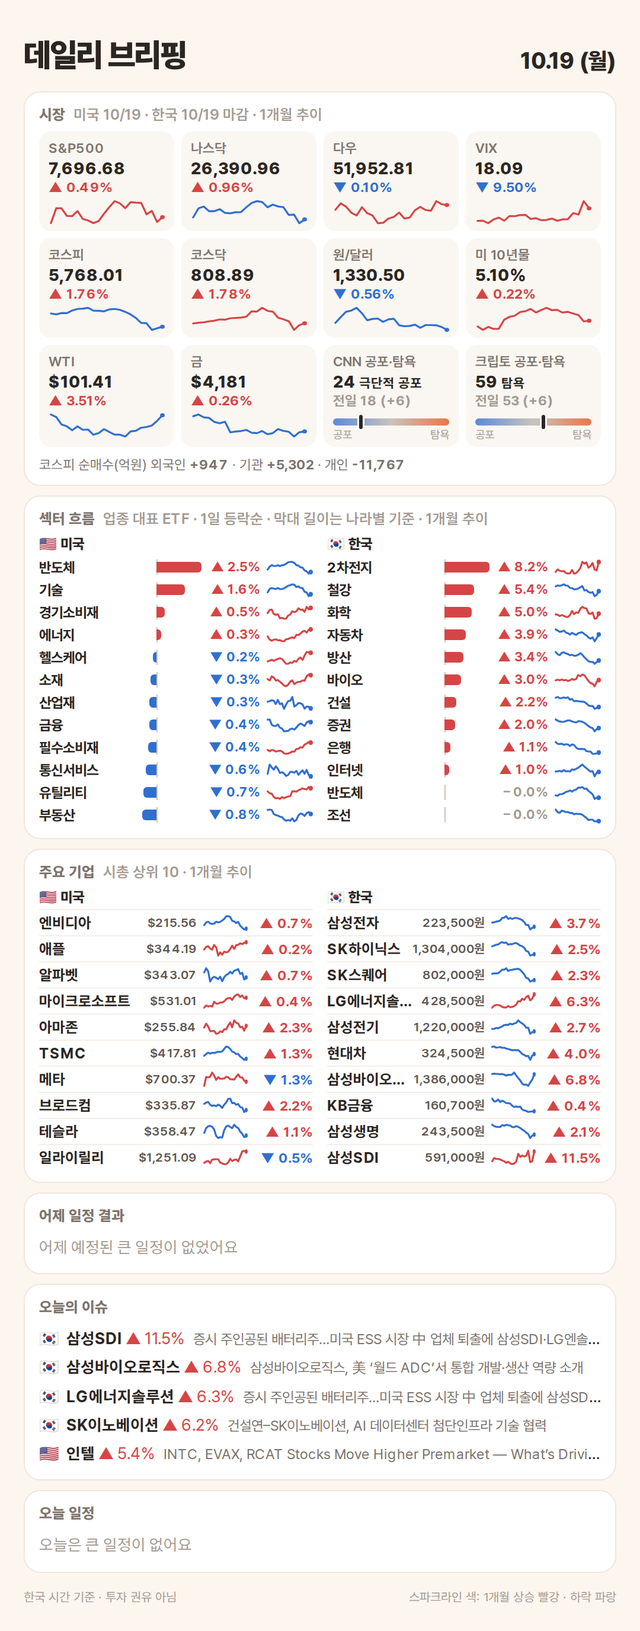
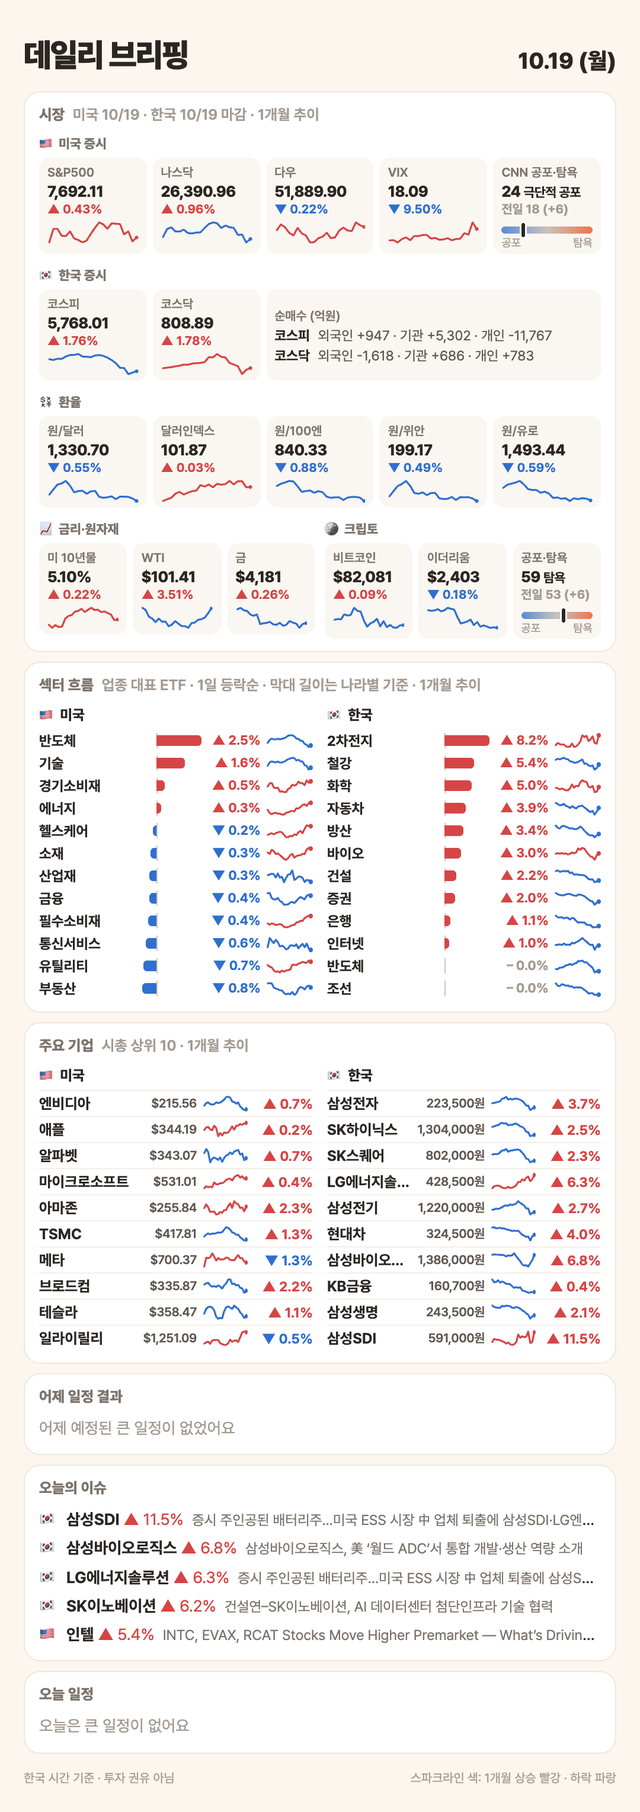
데일리: 달러인덱스·엔·위안·유로·비트코인·이더리움 추가, 시장 블록을 미국/한국/환율/금리·원자재/크립토로 재배열

diff --git a/docs/daily/2026-10-19/index.html b/docs/daily/2026-10-19/index.html
@@ -13,16 +13,22 @@ h1{font-size:27px;font-weight:900;letter-spacing:-1px}
 .blk{background:var(--card);border:1.5px solid var(--line);border-radius:14px;padding:11px 12px 10px;margin-bottom:8px}
 .bt{font-size:12.5px;font-weight:800;color:#7d746c;margin-bottom:7px}
 .at{font-weight:600;color:var(--sub);margin-left:4px}
-.grid{display:grid;grid-template-columns:repeat(4,1fr);gap:6px}
-.tile{min-width:0;background:#faf6f1;border-radius:10px;padding:7px 8px 5px;display:flex;flex-direction:column}
-.tile .sp{width:100%;height:22px;margin-top:3px}
+.grid{display:grid;gap:5px}
+.mrow{display:flex;gap:8px;margin-bottom:8px}.mrow:last-child{margin-bottom:0}
+.mg{min-width:0}
+.mgl{font-size:11px;font-weight:800;color:#7d746c;margin-bottom:4px}
+.flowt{justify-content:center;gap:3px}
+.fr{font-size:11.5px;color:#5f5750;white-space:nowrap;overflow:hidden;text-overflow:ellipsis}
+.fr b{color:var(--ink);margin-right:4px}
+.tile{min-width:0;background:#faf6f1;border-radius:9px;padding:6px 7px 4px;display:flex;flex-direction:column}
+.tile .sp{width:100%;height:20px;margin-top:3px}
 .tv small{font-size:11px;font-weight:700}
 .mbar{position:relative;height:6px;border-radius:3px;margin-top:8px;background:linear-gradient(90deg,#5b8bd6,#c9c3bd 50%,#e8774a)}
 .mbar span{position:absolute;top:-3px;width:3px;height:12px;margin-left:-1.5px;border-radius:2px;background:var(--ink);box-shadow:0 0 0 1.5px #fff}
 .mticks{display:flex;justify-content:space-between;font-size:9.5px;color:var(--sub);margin-top:2px}
-.tl{font-size:11.5px;color:#7d746c;font-weight:600}
-.tv{font-size:14px;font-weight:800;margin-top:2px;white-space:nowrap;overflow:hidden;text-overflow:ellipsis}
-.tc{font-size:11.5px;font-weight:700;margin-top:1px}
+.tl{font-size:10.5px;color:#7d746c;font-weight:600;white-space:nowrap;overflow:hidden;text-overflow:ellipsis}
+.tv{font-size:13px;letter-spacing:-.3px;font-weight:800;margin-top:2px;white-space:nowrap;overflow:hidden;text-overflow:ellipsis}
+.tc{font-size:10.5px;white-space:nowrap;font-weight:700;margin-top:1px}
 .up{color:var(--up)}.down{color:var(--down)}.flat{color:var(--sub)}
 .flow{font-size:11.5px;color:#7d746c;margin-top:8px}
 .cos{display:grid;grid-template-columns:minmax(0,1fr) minmax(0,1fr);gap:12px}
@@ -76,10 +82,10 @@ td,th{text-align:left;padding:5px 6px;border-top:1px solid var(--line)}
 .err{color:#c0492b;word-break:break-all}
 .meta{font-size:12px;color:var(--sub);margin-top:24px;display:flex;justify-content:space-between;flex-wrap:wrap;gap:8px}
 .meta a{color:var(--accent);font-weight:700}
-@media (max-width:420px){#card{padding:22px 12px 18px}.grid{grid-template-columns:repeat(3,1fr)}.cos{grid-template-columns:1fr}h1{font-size:24px}}</style></head><body>
+@media (max-width:420px){#card{padding:22px 12px 18px}.cos{grid-template-columns:1fr}h1{font-size:24px}}</style></head><body>
 <div id="card">
 <div class="head"><h1>데일리 브리핑</h1><div class="range">10.19 (월)</div></div>
-<div class="blk"><div class="bt">시장 <span class="at">미국 10/19 · 한국 10/19 마감 · 1개월 추이</span></div><div class="grid"><a class="tile" href="https://m.stock.naver.com/worldstock/index/.INX"><div class="tl">S&amp;P500</div><div class="tv">7,696.68</div><div class="tc"><span class="up">▲ 0.49%</span></div><svg class="sp" viewBox="0 0 100 26" preserveAspectRatio="none" aria-hidden="true"><polyline points="2.0,24.0 6.6,9.1 11.1,9.1 15.7,16.7 20.3,17.0 24.9,11.9 29.4,19.7 34.0,21.3 38.6,23.9 43.1,21.9 47.7,14.6 52.3,7.9 56.9,2.0 61.4,4.2 66.0,9.0 70.6,3.0 75.1,3.5 79.7,3.8 84.3,15.1 88.9,11.8 93.4,22.8 98.0,18.0" fill="none" stroke="var(--up)" stroke-width="1.6" stroke-linejoin="round" stroke-linecap="round" vector-effect="non-scaling-stroke"/><circle cx="98.0" cy="18.0" r="2" fill="var(--up)"/></svg></a><a class="tile" href="https://m.stock.naver.com/worldstock/index/.IXIC"><div class="tl">나스닥</div><div class="tv">26,390.96</div><div class="tc"><span class="up">▲ 0.96%</span></div><svg class="sp" viewBox="0 0 100 26" preserveAspectRatio="none" aria-hidden="true"><polyline points="2.0,18.2 6.6,9.2 11.1,7.4 15.7,12.0 20.3,12.0 24.9,10.0 29.4,13.7 34.0,14.1 38.6,13.1 43.1,13.0 47.7,8.2 52.3,3.8 56.9,2.0 61.4,2.9 66.0,8.1 70.6,5.5 75.1,7.3 79.7,8.0 84.3,15.7 88.9,15.4 93.4,24.0 98.0,20.2" fill="none" stroke="var(--down)" stroke-width="1.6" stroke-linejoin="round" stroke-linecap="round" vector-effect="non-scaling-stroke"/><circle cx="98.0" cy="20.2" r="2" fill="var(--down)"/></svg></a><a class="tile" href="https://m.stock.naver.com/worldstock/index/.DJI"><div class="tl">다우</div><div class="tv">51,952.81</div><div class="tc"><span class="down">▼ 0.10%</span></div><svg class="sp" viewBox="0 0 100 26" preserveAspectRatio="none" aria-hidden="true"><polyline points="2.0,10.6 6.6,4.2 11.1,7.4 15.7,13.5 20.3,16.3 24.9,8.0 29.4,14.0 34.0,16.3 38.6,24.0 43.1,23.6 47.7,19.3 52.3,17.7 56.9,13.4 61.4,19.3 66.0,18.4 70.6,11.0 75.1,7.7 79.7,10.8 84.3,11.6 88.9,2.0 93.4,5.0 98.0,5.9" fill="none" stroke="var(--up)" stroke-width="1.6" stroke-linejoin="round" stroke-linecap="round" vector-effect="non-scaling-stroke"/><circle cx="98.0" cy="5.9" r="2" fill="var(--up)"/></svg></a><a class="tile" href="https://m.stock.naver.com/worldstock/index/.VIX"><div class="tl">VIX</div><div class="tv">18.09</div><div class="tc"><span class="down">▼ 9.50%</span></div><svg class="sp" viewBox="0 0 100 26" preserveAspectRatio="none" aria-hidden="true"><polyline points="2.0,21.7 6.6,21.5 11.1,24.0 15.7,20.3 20.3,18.4 24.9,21.5 29.4,16.9 34.0,17.0 38.6,15.9 43.1,15.7 47.7,19.8 52.3,19.0 56.9,21.0 61.4,20.7 66.0,19.4 70.6,21.6 75.1,20.2 79.7,20.0 84.3,13.9 88.9,15.4 93.4,2.0 98.0,9.2" fill="none" stroke="var(--up)" stroke-width="1.6" stroke-linejoin="round" stroke-linecap="round" vector-effect="non-scaling-stroke"/><circle cx="98.0" cy="9.2" r="2" fill="var(--up)"/></svg></a><a class="tile" href="https://m.stock.naver.com/domestic/index/KOSPI"><div class="tl">코스피</div><div class="tv">5,768.01</div><div class="tc"><span class="up">▲ 1.76%</span></div><svg class="sp" viewBox="0 0 100 26" preserveAspectRatio="none" aria-hidden="true"><polyline points="2.0,7.7 6.6,8.5 11.1,7.2 15.7,7.3 20.3,4.7 24.9,3.1 29.4,2.9 34.0,2.0 38.6,4.8 43.1,5.0 47.7,5.5 52.3,3.6 56.9,3.1 61.4,4.0 66.0,6.0 70.6,8.6 75.1,12.0 79.7,17.1 84.3,17.4 88.9,24.0 93.4,22.4 98.0,20.9" fill="none" stroke="var(--down)" stroke-width="1.6" stroke-linejoin="round" stroke-linecap="round" vector-effect="non-scaling-stroke"/><circle cx="98.0" cy="20.9" r="2" fill="var(--down)"/></svg></a><a class="tile" href="https://m.stock.naver.com/domestic/index/KOSDAQ"><div class="tl">코스닥</div><div class="tv">808.89</div><div class="tc"><span class="up">▲ 1.78%</span></div><svg class="sp" viewBox="0 0 100 26" preserveAspectRatio="none" aria-hidden="true"><polyline points="2.0,17.6 6.6,16.9 11.1,16.4 15.7,15.5 20.3,14.8 24.9,13.6 29.4,13.8 34.0,12.4 38.6,12.1 43.1,11.7 47.7,10.9 52.3,5.5 56.9,5.7 61.4,2.0 66.0,5.0 70.6,5.8 75.1,11.8 79.7,13.5 84.3,15.3 88.9,24.0 93.4,19.3 98.0,17.4" fill="none" stroke="var(--up)" stroke-width="1.6" stroke-linejoin="round" stroke-linecap="round" vector-effect="non-scaling-stroke"/><circle cx="98.0" cy="17.4" r="2" fill="var(--up)"/></svg></a><a class="tile" href="https://m.stock.naver.com/marketindex/exchange/FX_USDKRW"><div class="tl">원/달러</div><div class="tv">1,330.50</div><div class="tc"><span class="down">▼ 0.56%</span></div><svg class="sp" viewBox="0 0 100 26" preserveAspectRatio="none" aria-hidden="true"><polyline points="2.0,17.1 6.6,11.3 11.1,6.0 15.7,4.7 20.3,2.0 24.9,7.4 29.4,14.4 34.0,13.1 38.6,12.7 43.1,16.0 47.7,13.5 52.3,12.9 56.9,19.4 61.4,20.4 66.0,20.0 70.6,18.8 75.1,21.9 79.7,19.2 84.3,19.2 88.9,19.4 93.4,21.1 98.0,24.0" fill="none" stroke="var(--down)" stroke-width="1.6" stroke-linejoin="round" stroke-linecap="round" vector-effect="non-scaling-stroke"/><circle cx="98.0" cy="24.0" r="2" fill="var(--down)"/></svg></a><a class="tile" href="https://m.stock.naver.com/marketindex/bond/US10YT=RR"><div class="tl">미 10년물</div><div class="tv">5.10%</div><div class="tc"><span class="up">▲ 0.22%</span></div><svg class="sp" viewBox="0 0 100 26" preserveAspectRatio="none" aria-hidden="true"><polyline points="2.0,20.6 6.6,24.0 11.1,21.0 15.7,23.0 20.3,22.8 24.9,13.9 29.4,11.0 34.0,9.9 38.6,6.2 43.1,5.4 47.7,3.1 52.3,6.7 56.9,4.1 61.4,2.0 66.0,4.4 70.6,4.1 75.1,6.7 79.7,6.0 84.3,7.7 88.9,9.3 93.4,15.5 98.0,14.9" fill="none" stroke="var(--up)" stroke-width="1.6" stroke-linejoin="round" stroke-linecap="round" vector-effect="non-scaling-stroke"/><circle cx="98.0" cy="14.9" r="2" fill="var(--up)"/></svg></a><a class="tile" href="https://m.stock.naver.com/marketindex/energy/CLcv1"><div class="tl">WTI</div><div class="tv">$101.41</div><div class="tc"><span class="up">▲ 3.51%</span></div><svg class="sp" viewBox="0 0 100 26" preserveAspectRatio="none" aria-hidden="true"><polyline points="2.0,2.0 6.6,4.6 11.1,11.9 15.7,13.8 20.3,17.7 24.9,13.8 29.4,17.3 34.0,17.0 38.6,22.2 43.1,20.5 47.7,16.6 52.3,19.4 56.9,22.1 61.4,22.1 66.0,24.0 70.6,18.8 75.1,18.2 79.7,15.2 84.3,14.5 88.9,13.0 93.4,8.4 98.0,2.8" fill="none" stroke="var(--down)" stroke-width="1.6" stroke-linejoin="round" stroke-linecap="round" vector-effect="non-scaling-stroke"/><circle cx="98.0" cy="2.8" r="2" fill="var(--down)"/></svg></a><a class="tile" href="https://m.stock.naver.com/marketindex/metals/GCcv1"><div class="tl">금</div><div class="tv">$4,181</div><div class="tc"><span class="up">▲ 0.26%</span></div><svg class="sp" viewBox="0 0 100 26" preserveAspectRatio="none" aria-hidden="true"><polyline points="2.0,3.7 6.6,2.0 11.1,4.8 15.7,5.4 20.3,9.4 24.9,10.8 29.4,9.2 34.0,19.8 38.6,19.0 43.1,18.5 47.7,17.4 52.3,20.2 56.9,20.6 61.4,18.5 66.0,21.7 70.6,20.6 75.1,16.5 79.7,18.3 84.3,19.2 88.9,24.0 93.4,19.7 98.0,18.9" fill="none" stroke="var(--down)" stroke-width="1.6" stroke-linejoin="round" stroke-linecap="round" vector-effect="non-scaling-stroke"/><circle cx="98.0" cy="18.9" r="2" fill="var(--down)"/></svg></a><a class="tile" href="https://edition.cnn.com/markets/fear-and-greed"><div class="tl">CNN 공포·탐욕</div><div class="tv">24 <small>극단적 공포</small></div><div class="tc flat">전일 18 (+6)</div><div class="mbar"><span style="left:24%"></span></div><div class="mticks"><span>공포</span><span>탐욕</span></div></a><a class="tile" href="https://alternative.me/crypto/fear-and-greed-index/"><div class="tl">크립토 공포·탐욕</div><div class="tv">59 <small>탐욕</small></div><div class="tc flat">전일 53 (+6)</div><div class="mbar"><span style="left:59%"></span></div><div class="mticks"><span>공포</span><span>탐욕</span></div></a></div><div class="flow">코스피 순매수(억원) 외국인 <b>+947</b> · 기관 <b>+5,302</b> · 개인 <b>-11,767</b></div></div>
+<div class="blk"><div class="bt">시장 <span class="at">미국 10/19 · 한국 10/19 마감 · 1개월 추이</span></div><div class="mrow"><div class="mg" style="flex:5"><div class="mgl">🇺🇸 미국 증시</div><div class="grid" style="grid-template-columns:repeat(5,minmax(0,1fr))"><a class="tile" href="https://m.stock.naver.com/worldstock/index/.INX"><div class="tl">S&amp;P500</div><div class="tv">7,692.11</div><div class="tc"><span class="up">▲ 0.43%</span></div><svg class="sp" viewBox="0 0 100 26" preserveAspectRatio="none" aria-hidden="true"><polyline points="2.0,24.0 6.6,9.1 11.1,9.1 15.7,16.7 20.3,17.0 24.9,11.9 29.4,19.7 34.0,21.3 38.6,23.9 43.1,21.9 47.7,14.6 52.3,7.9 56.9,2.0 61.4,4.2 66.0,9.0 70.6,3.0 75.1,3.5 79.7,3.8 84.3,15.1 88.9,11.8 93.4,22.8 98.0,18.6" fill="none" stroke="var(--up)" stroke-width="1.6" stroke-linejoin="round" stroke-linecap="round" vector-effect="non-scaling-stroke"/><circle cx="98.0" cy="18.6" r="2" fill="var(--up)"/></svg></a><a class="tile" href="https://m.stock.naver.com/worldstock/index/.IXIC"><div class="tl">나스닥</div><div class="tv">26,390.96</div><div class="tc"><span class="up">▲ 0.96%</span></div><svg class="sp" viewBox="0 0 100 26" preserveAspectRatio="none" aria-hidden="true"><polyline points="2.0,18.2 6.6,9.2 11.1,7.4 15.7,12.0 20.3,12.0 24.9,10.0 29.4,13.7 34.0,14.1 38.6,13.1 43.1,13.0 47.7,8.2 52.3,3.8 56.9,2.0 61.4,2.9 66.0,8.1 70.6,5.5 75.1,7.3 79.7,8.0 84.3,15.7 88.9,15.4 93.4,24.0 98.0,20.2" fill="none" stroke="var(--down)" stroke-width="1.6" stroke-linejoin="round" stroke-linecap="round" vector-effect="non-scaling-stroke"/><circle cx="98.0" cy="20.2" r="2" fill="var(--down)"/></svg></a><a class="tile" href="https://m.stock.naver.com/worldstock/index/.DJI"><div class="tl">다우</div><div class="tv">51,889.90</div><div class="tc"><span class="down">▼ 0.22%</span></div><svg class="sp" viewBox="0 0 100 26" preserveAspectRatio="none" aria-hidden="true"><polyline points="2.0,10.6 6.6,4.2 11.1,7.4 15.7,13.5 20.3,16.3 24.9,8.0 29.4,14.0 34.0,16.3 38.6,24.0 43.1,23.6 47.7,19.3 52.3,17.7 56.9,13.4 61.4,19.3 66.0,18.4 70.6,11.0 75.1,7.7 79.7,10.8 84.3,11.6 88.9,2.0 93.4,5.0 98.0,7.0" fill="none" stroke="var(--up)" stroke-width="1.6" stroke-linejoin="round" stroke-linecap="round" vector-effect="non-scaling-stroke"/><circle cx="98.0" cy="7.0" r="2" fill="var(--up)"/></svg></a><a class="tile" href="https://m.stock.naver.com/worldstock/index/.VIX"><div class="tl">VIX</div><div class="tv">18.09</div><div class="tc"><span class="down">▼ 9.50%</span></div><svg class="sp" viewBox="0 0 100 26" preserveAspectRatio="none" aria-hidden="true"><polyline points="2.0,21.7 6.6,21.5 11.1,24.0 15.7,20.3 20.3,18.4 24.9,21.5 29.4,16.9 34.0,17.0 38.6,15.9 43.1,15.7 47.7,19.8 52.3,19.0 56.9,21.0 61.4,20.7 66.0,19.4 70.6,21.6 75.1,20.2 79.7,20.0 84.3,13.9 88.9,15.4 93.4,2.0 98.0,9.2" fill="none" stroke="var(--up)" stroke-width="1.6" stroke-linejoin="round" stroke-linecap="round" vector-effect="non-scaling-stroke"/><circle cx="98.0" cy="9.2" r="2" fill="var(--up)"/></svg></a><a class="tile" href="https://edition.cnn.com/markets/fear-and-greed"><div class="tl">CNN 공포·탐욕</div><div class="tv">24 <small>극단적 공포</small></div><div class="tc flat">전일 18 (+6)</div><div class="mbar"><span style="left:24%"></span></div><div class="mticks"><span>공포</span><span>탐욕</span></div></a></div></div></div><div class="mrow"><div class="mg" style="flex:5"><div class="mgl">🇰🇷 한국 증시</div><div class="grid" style="grid-template-columns:repeat(5,minmax(0,1fr))"><a class="tile" href="https://m.stock.naver.com/domestic/index/KOSPI"><div class="tl">코스피</div><div class="tv">5,768.01</div><div class="tc"><span class="up">▲ 1.76%</span></div><svg class="sp" viewBox="0 0 100 26" preserveAspectRatio="none" aria-hidden="true"><polyline points="2.0,7.7 6.6,8.5 11.1,7.2 15.7,7.3 20.3,4.7 24.9,3.1 29.4,2.9 34.0,2.0 38.6,4.8 43.1,5.0 47.7,5.5 52.3,3.6 56.9,3.1 61.4,4.0 66.0,6.0 70.6,8.6 75.1,12.0 79.7,17.1 84.3,17.4 88.9,24.0 93.4,22.4 98.0,20.9" fill="none" stroke="var(--down)" stroke-width="1.6" stroke-linejoin="round" stroke-linecap="round" vector-effect="non-scaling-stroke"/><circle cx="98.0" cy="20.9" r="2" fill="var(--down)"/></svg></a><a class="tile" href="https://m.stock.naver.com/domestic/index/KOSDAQ"><div class="tl">코스닥</div><div class="tv">808.89</div><div class="tc"><span class="up">▲ 1.78%</span></div><svg class="sp" viewBox="0 0 100 26" preserveAspectRatio="none" aria-hidden="true"><polyline points="2.0,17.6 6.6,16.9 11.1,16.4 15.7,15.5 20.3,14.8 24.9,13.6 29.4,13.8 34.0,12.4 38.6,12.1 43.1,11.7 47.7,10.9 52.3,5.5 56.9,5.7 61.4,2.0 66.0,5.0 70.6,5.8 75.1,11.8 79.7,13.5 84.3,15.3 88.9,24.0 93.4,19.3 98.0,17.4" fill="none" stroke="var(--up)" stroke-width="1.6" stroke-linejoin="round" stroke-linecap="round" vector-effect="non-scaling-stroke"/><circle cx="98.0" cy="17.4" r="2" fill="var(--up)"/></svg></a><div class="tile flowt" style="grid-column:span 3"><div class="tl">순매수 (억원)</div><div class="fr"><b>코스피</b> 외국인 +947 · 기관 +5,302 · 개인 -11,767</div><div class="fr"><b>코스닥</b> 외국인 -1,618 · 기관 +686 · 개인 +783</div></div></div></div></div><div class="mrow"><div class="mg" style="flex:5"><div class="mgl">💱 환율</div><div class="grid" style="grid-template-columns:repeat(5,minmax(0,1fr))"><a class="tile" href="https://m.stock.naver.com/marketindex/exchange/FX_USDKRW"><div class="tl">원/달러</div><div class="tv">1,330.70</div><div class="tc"><span class="down">▼ 0.55%</span></div><svg class="sp" viewBox="0 0 100 26" preserveAspectRatio="none" aria-hidden="true"><polyline points="2.0,17.2 6.6,11.3 11.1,6.0 15.7,4.7 20.3,2.0 24.9,7.4 29.4,14.5 34.0,13.1 38.6,12.8 43.1,16.0 47.7,13.5 52.3,12.9 56.9,19.5 61.4,20.4 66.0,20.0 70.6,18.9 75.1,22.0 79.7,19.3 84.3,19.3 88.9,19.5 93.4,21.2 98.0,24.0" fill="none" stroke="var(--down)" stroke-width="1.6" stroke-linejoin="round" stroke-linecap="round" vector-effect="non-scaling-stroke"/><circle cx="98.0" cy="24.0" r="2" fill="var(--down)"/></svg></a><a class="tile" href="https://m.stock.naver.com/worldstock/index/.DXY"><div class="tl">달러인덱스</div><div class="tv">101.87</div><div class="tc"><span class="up">▲ 0.03%</span></div><svg class="sp" viewBox="0 0 100 26" preserveAspectRatio="none" aria-hidden="true"><polyline points="2.0,24.0 6.6,22.1 11.1,20.5 15.7,15.9 20.3,14.1 24.9,17.0 29.4,14.9 34.0,13.3 38.6,12.6 43.1,6.6 47.7,8.1 52.3,5.9 56.9,9.0 61.4,5.2 66.0,6.2 70.6,5.5 75.1,2.0 79.7,5.8 84.3,2.3 88.9,2.3 93.4,9.0 98.0,8.7" fill="none" stroke="var(--up)" stroke-width="1.6" stroke-linejoin="round" stroke-linecap="round" vector-effect="non-scaling-stroke"/><circle cx="98.0" cy="8.7" r="2" fill="var(--up)"/></svg></a><a class="tile" href="https://m.stock.naver.com/marketindex/exchange/FX_JPYKRW"><div class="tl">원/100엔</div><div class="tv">840.33</div><div class="tc"><span class="down">▼ 0.88%</span></div><svg class="sp" viewBox="0 0 100 26" preserveAspectRatio="none" aria-hidden="true"><polyline points="2.0,7.5 6.6,5.1 11.1,3.7 15.7,2.0 20.3,2.6 24.9,8.0 29.4,14.0 34.0,13.2 38.6,12.5 43.1,15.0 47.7,13.2 52.3,14.4 56.9,19.4 61.4,20.5 66.0,20.0 70.6,20.0 75.1,23.0 79.7,20.3 84.3,19.6 88.9,19.6 93.4,20.4 98.0,24.0" fill="none" stroke="var(--down)" stroke-width="1.6" stroke-linejoin="round" stroke-linecap="round" vector-effect="non-scaling-stroke"/><circle cx="98.0" cy="24.0" r="2" fill="var(--down)"/></svg></a><a class="tile" href="https://m.stock.naver.com/marketindex/exchange/FX_CNYKRW"><div class="tl">원/위안</div><div class="tv">199.17</div><div class="tc"><span class="down">▼ 0.49%</span></div><svg class="sp" viewBox="0 0 100 26" preserveAspectRatio="none" aria-hidden="true"><polyline points="2.0,19.0 6.6,13.2 11.1,7.6 15.7,5.5 20.3,2.0 24.9,7.5 29.4,15.3 34.0,16.0 38.6,14.6 43.1,17.6 47.7,15.2 52.3,15.1 56.9,21.1 61.4,21.9 66.0,21.6 70.6,19.6 75.1,22.9 79.7,19.9 84.3,20.0 88.9,19.8 93.4,21.3 98.0,24.0" fill="none" stroke="var(--down)" stroke-width="1.6" stroke-linejoin="round" stroke-linecap="round" vector-effect="non-scaling-stroke"/><circle cx="98.0" cy="24.0" r="2" fill="var(--down)"/></svg></a><a class="tile" href="https://m.stock.naver.com/marketindex/exchange/FX_EURKRW"><div class="tl">원/유로</div><div class="tv">1,493.44</div><div class="tc"><span class="down">▼ 0.59%</span></div><svg class="sp" viewBox="0 0 100 26" preserveAspectRatio="none" aria-hidden="true"><polyline points="2.0,9.7 6.6,6.2 11.1,5.0 15.7,3.8 20.3,2.0 24.9,6.0 29.4,11.0 34.0,12.0 38.6,12.0 43.1,15.0 47.7,13.7 52.3,15.9 56.9,20.7 61.4,20.1 66.0,21.6 70.6,21.0 75.1,24.0 79.7,21.1 84.3,22.0 88.9,20.9 93.4,21.5 98.0,23.4" fill="none" stroke="var(--down)" stroke-width="1.6" stroke-linejoin="round" stroke-linecap="round" vector-effect="non-scaling-stroke"/><circle cx="98.0" cy="23.4" r="2" fill="var(--down)"/></svg></a></div></div></div><div class="mrow"><div class="mg" style="flex:3"><div class="mgl">📈 금리·원자재</div><div class="grid" style="grid-template-columns:repeat(3,minmax(0,1fr))"><a class="tile" href="https://m.stock.naver.com/marketindex/bond/US10YT=RR"><div class="tl">미 10년물</div><div class="tv">5.10%</div><div class="tc"><span class="up">▲ 0.22%</span></div><svg class="sp" viewBox="0 0 100 26" preserveAspectRatio="none" aria-hidden="true"><polyline points="2.0,20.6 6.6,24.0 11.1,21.0 15.7,23.0 20.3,22.8 24.9,13.9 29.4,11.0 34.0,9.9 38.6,6.2 43.1,5.4 47.7,3.1 52.3,6.7 56.9,4.1 61.4,2.0 66.0,4.4 70.6,4.1 75.1,6.7 79.7,6.0 84.3,7.7 88.9,9.3 93.4,15.5 98.0,14.9" fill="none" stroke="var(--up)" stroke-width="1.6" stroke-linejoin="round" stroke-linecap="round" vector-effect="non-scaling-stroke"/><circle cx="98.0" cy="14.9" r="2" fill="var(--up)"/></svg></a><a class="tile" href="https://m.stock.naver.com/marketindex/energy/CLcv1"><div class="tl">WTI</div><div class="tv">$101.41</div><div class="tc"><span class="up">▲ 3.51%</span></div><svg class="sp" viewBox="0 0 100 26" preserveAspectRatio="none" aria-hidden="true"><polyline points="2.0,2.0 6.6,4.6 11.1,11.9 15.7,13.8 20.3,17.7 24.9,13.8 29.4,17.3 34.0,17.0 38.6,22.2 43.1,20.5 47.7,16.6 52.3,19.4 56.9,22.1 61.4,22.1 66.0,24.0 70.6,18.8 75.1,18.2 79.7,15.2 84.3,14.5 88.9,13.0 93.4,8.4 98.0,2.8" fill="none" stroke="var(--down)" stroke-width="1.6" stroke-linejoin="round" stroke-linecap="round" vector-effect="non-scaling-stroke"/><circle cx="98.0" cy="2.8" r="2" fill="var(--down)"/></svg></a><a class="tile" href="https://m.stock.naver.com/marketindex/metals/GCcv1"><div class="tl">금</div><div class="tv">$4,181</div><div class="tc"><span class="up">▲ 0.26%</span></div><svg class="sp" viewBox="0 0 100 26" preserveAspectRatio="none" aria-hidden="true"><polyline points="2.0,3.7 6.6,2.0 11.1,4.8 15.7,5.4 20.3,9.4 24.9,10.8 29.4,9.2 34.0,19.8 38.6,19.0 43.1,18.5 47.7,17.4 52.3,20.2 56.9,20.6 61.4,18.5 66.0,21.7 70.6,20.6 75.1,16.5 79.7,18.3 84.3,19.2 88.9,24.0 93.4,19.7 98.0,18.9" fill="none" stroke="var(--down)" stroke-width="1.6" stroke-linejoin="round" stroke-linecap="round" vector-effect="non-scaling-stroke"/><circle cx="98.0" cy="18.9" r="2" fill="var(--down)"/></svg></a></div></div><div class="mg" style="flex:3"><div class="mgl">🪙 크립토</div><div class="grid" style="grid-template-columns:repeat(3,minmax(0,1fr))"><a class="tile" href="https://www.coinbase.com/price/btc"><div class="tl">비트코인</div><div class="tv">$82,081</div><div class="tc"><span class="up">▲ 0.09%</span></div><svg class="sp" viewBox="0 0 100 26" preserveAspectRatio="none" aria-hidden="true"><polyline points="2.0,15.1 6.6,14.3 11.1,14.7 15.7,9.1 20.3,10.6 24.9,9.6 29.4,2.0 34.0,5.3 38.6,6.1 43.1,15.9 47.7,22.7 52.3,19.0 56.9,17.4 61.4,14.1 66.0,22.4 70.6,16.6 75.1,23.2 79.7,20.8 84.3,23.5 88.9,24.0 93.4,21.3 98.0,21.0" fill="none" stroke="var(--down)" stroke-width="1.6" stroke-linejoin="round" stroke-linecap="round" vector-effect="non-scaling-stroke"/><circle cx="98.0" cy="21.0" r="2" fill="var(--down)"/></svg></a><a class="tile" href="https://www.coinbase.com/price/eth"><div class="tl">이더리움</div><div class="tv">$2,403</div><div class="tc"><span class="down">▼ 0.18%</span></div><svg class="sp" viewBox="0 0 100 26" preserveAspectRatio="none" aria-hidden="true"><polyline points="2.0,4.6 6.6,5.3 11.1,4.9 15.7,3.4 20.3,5.9 24.9,4.7 29.4,2.0 34.0,3.1 38.6,4.0 43.1,12.4 47.7,19.1 52.3,18.2 56.9,17.0 61.4,14.9 66.0,21.0 70.6,17.5 75.1,22.7 79.7,21.3 84.3,22.6 88.9,24.0 93.4,23.5 98.0,23.8" fill="none" stroke="var(--down)" stroke-width="1.6" stroke-linejoin="round" stroke-linecap="round" vector-effect="non-scaling-stroke"/><circle cx="98.0" cy="23.8" r="2" fill="var(--down)"/></svg></a><a class="tile" href="https://alternative.me/crypto/fear-and-greed-index/"><div class="tl">공포·탐욕</div><div class="tv">59 <small>탐욕</small></div><div class="tc flat">전일 53 (+6)</div><div class="mbar"><span style="left:59%"></span></div><div class="mticks"><span>공포</span><span>탐욕</span></div></a></div></div></div></div>
 <div class="blk"><div class="bt">섹터 흐름 <span class="at">업종 대표 ETF · 1일 등락순 · 막대 길이는 나라별 기준 · 1개월 추이</span></div><div class="cos"><div><div class="ch">🇺🇸 미국</div><a class="se" href="https://m.stock.naver.com/worldstock/etf/SMH.O"><span class="sn">반도체</span><span class="sb"><i class="pos" style="left:50%;width:50.0%"></i></span><span class="sc"><span class="up">▲ 2.5%</span></span><svg class="sp" viewBox="0 0 44 14" preserveAspectRatio="none" aria-hidden="true"><polyline points="2.0,8.5 3.9,6.0 5.8,4.8 7.7,5.5 9.6,5.5 11.5,4.9 13.4,5.6 15.3,4.9 17.2,4.6 19.1,3.7 21.0,2.4 23.0,2.0 24.9,2.1 26.8,2.9 28.7,4.8 30.6,5.2 32.5,6.6 34.4,6.9 36.3,9.3 38.2,10.0 40.1,12.0 42.0,10.6" fill="none" stroke="var(--down)" stroke-width="1.6" stroke-linejoin="round" stroke-linecap="round" vector-effect="non-scaling-stroke"/><circle cx="42.0" cy="10.6" r="2" fill="var(--down)"/></svg></a><a class="se" href="https://m.stock.naver.com/worldstock/etf/XLK"><span class="sn">기술</span><span class="sb"><i class="pos" style="left:50%;width:32.3%"></i></span><span class="sc"><span class="up">▲ 1.6%</span></span><svg class="sp" viewBox="0 0 44 14" preserveAspectRatio="none" aria-hidden="true"><polyline points="2.0,8.7 3.9,5.9 5.8,5.1 7.7,5.6 9.6,5.9 11.5,5.1 13.4,6.0 15.3,6.0 17.2,5.4 19.1,4.3 21.0,3.2 23.0,2.6 24.9,2.0 26.8,2.3 28.7,4.3 30.6,3.7 32.5,5.0 34.4,5.1 36.3,8.2 38.2,8.9 40.1,12.0 42.0,10.4" fill="none" stroke="var(--down)" stroke-width="1.6" stroke-linejoin="round" stroke-linecap="round" vector-effect="non-scaling-stroke"/><circle cx="42.0" cy="10.4" r="2" fill="var(--down)"/></svg></a><a class="se" href="https://m.stock.naver.com/worldstock/etf/XLY"><span class="sn">경기소비재</span><span class="sb"><i class="pos" style="left:50%;width:9.6%"></i></span><span class="sc"><span class="up">▲ 0.5%</span></span><svg class="sp" viewBox="0 0 44 14" preserveAspectRatio="none" aria-hidden="true"><polyline points="2.0,7.2 3.9,4.6 5.8,4.3 7.7,8.0 9.6,8.7 11.5,8.2 13.4,11.6 15.3,11.3 17.2,11.9 19.1,12.0 21.0,9.3 23.0,8.5 24.9,5.7 26.8,6.5 28.7,5.7 30.6,3.2 32.5,4.5 34.4,4.3 36.3,6.2 38.2,2.0 40.1,4.1 42.0,2.9" fill="none" stroke="var(--up)" stroke-width="1.6" stroke-linejoin="round" stroke-linecap="round" vector-effect="non-scaling-stroke"/><circle cx="42.0" cy="2.9" r="2" fill="var(--up)"/></svg></a><a class="se" href="https://m.stock.naver.com/worldstock/etf/XLE"><span class="sn">에너지</span><span class="sb"><i class="pos" style="left:50%;width:5.6%"></i></span><span class="sc"><span class="up">▲ 0.3%</span></span><svg class="sp" viewBox="0 0 44 14" preserveAspectRatio="none" aria-hidden="true"><polyline points="2.0,7.9 3.9,10.6 5.8,11.6 7.7,10.7 9.6,10.4 11.5,11.2 13.4,11.1 15.3,11.9 17.2,12.0 19.1,10.3 21.0,10.1 23.0,9.2 24.9,8.8 26.8,9.3 28.7,6.6 30.6,6.8 32.5,5.5 34.4,3.8 36.3,3.2 38.2,4.7 40.1,2.3 42.0,2.0" fill="none" stroke="var(--up)" stroke-width="1.6" stroke-linejoin="round" stroke-linecap="round" vector-effect="non-scaling-stroke"/><circle cx="42.0" cy="2.0" r="2" fill="var(--up)"/></svg></a><a class="se" href="https://m.stock.naver.com/worldstock/etf/XLV"><span class="sn">헬스케어</span><span class="sb"><i class="neg" style="right:50%;width:3.2%"></i></span><span class="sc"><span class="down">▼ 0.2%</span></span><svg class="sp" viewBox="0 0 44 14" preserveAspectRatio="none" aria-hidden="true"><polyline points="2.0,10.0 3.9,9.4 5.8,8.6 7.7,9.6 9.6,8.6 11.5,7.9 13.4,7.4 15.3,7.9 17.2,10.0 19.1,12.0 21.0,12.0 23.0,10.9 24.9,11.2 26.8,9.6 28.7,10.2 30.6,7.8 32.5,6.7 34.4,8.8 36.3,4.9 38.2,2.0 40.1,2.4 42.0,2.7" fill="none" stroke="var(--up)" stroke-width="1.6" stroke-linejoin="round" stroke-linecap="round" vector-effect="non-scaling-stroke"/><circle cx="42.0" cy="2.7" r="2" fill="var(--up)"/></svg></a><a class="se" href="https://m.stock.naver.com/worldstock/etf/XLB"><span class="sn">소재</span><span class="sb"><i class="neg" style="right:50%;width:5.6%"></i></span><span class="sc"><span class="down">▼ 0.3%</span></span><svg class="sp" viewBox="0 0 44 14" preserveAspectRatio="none" aria-hidden="true"><polyline points="2.0,5.9 3.9,7.1 5.8,3.6 7.7,4.7 9.6,7.2 11.5,6.7 13.4,8.1 15.3,9.6 17.2,11.3 19.1,12.0 21.0,10.7 23.0,8.0 24.9,7.0 26.8,10.2 28.7,8.9 30.6,8.3 32.5,8.2 34.4,7.0 36.3,7.3 38.2,3.5 40.1,2.0 42.0,2.6" fill="none" stroke="var(--up)" stroke-width="1.6" stroke-linejoin="round" stroke-linecap="round" vector-effect="non-scaling-stroke"/><circle cx="42.0" cy="2.6" r="2" fill="var(--up)"/></svg></a><a class="se" href="https://m.stock.naver.com/worldstock/etf/XLI"><span class="sn">산업재</span><span class="sb"><i class="neg" style="right:50%;width:6.8%"></i></span><span class="sc"><span class="down">▼ 0.3%</span></span><svg class="sp" viewBox="0 0 44 14" preserveAspectRatio="none" aria-hidden="true"><polyline points="2.0,6.0 3.9,5.5 5.8,4.8 7.7,5.2 9.6,8.0 11.5,4.5 13.4,8.1 15.3,7.3 17.2,12.0 19.1,8.4 21.0,5.5 23.0,5.2 24.9,2.0 26.8,10.1 28.7,8.9 30.6,7.1 32.5,7.3 34.4,8.3 36.3,11.9 38.2,10.0 40.1,10.3 42.0,11.6" fill="none" stroke="var(--down)" stroke-width="1.6" stroke-linejoin="round" stroke-linecap="round" vector-effect="non-scaling-stroke"/><circle cx="42.0" cy="11.6" r="2" fill="var(--down)"/></svg></a><a class="se" href="https://m.stock.naver.com/worldstock/etf/XLF"><span class="sn">금융</span><span class="sb"><i class="neg" style="right:50%;width:7.2%"></i></span><span class="sc"><span class="down">▼ 0.4%</span></span><svg class="sp" viewBox="0 0 44 14" preserveAspectRatio="none" aria-hidden="true"><polyline points="2.0,2.2 3.9,2.0 5.8,6.4 7.7,7.4 9.6,7.5 11.5,6.2 13.4,8.8 15.3,9.6 17.2,12.0 19.1,11.8 21.0,11.6 23.0,10.1 24.9,9.6 26.8,10.6 28.7,8.7 30.6,6.7 32.5,5.4 34.4,6.3 36.3,7.5 38.2,4.5 40.1,3.5 42.0,4.3" fill="none" stroke="var(--down)" stroke-width="1.6" stroke-linejoin="round" stroke-linecap="round" vector-effect="non-scaling-stroke"/><circle cx="42.0" cy="4.3" r="2" fill="var(--down)"/></svg></a><a class="se" href="https://m.stock.naver.com/worldstock/etf/XLP"><span class="sn">필수소비재</span><span class="sb"><i class="neg" style="right:50%;width:8.2%"></i></span><span class="sc"><span class="down">▼ 0.4%</span></span><svg class="sp" viewBox="0 0 44 14" preserveAspectRatio="none" aria-hidden="true"><polyline points="2.0,8.6 3.9,9.8 5.8,8.7 7.7,9.1 9.6,10.1 11.5,9.6 13.4,9.3 15.3,9.9 17.2,11.6 19.1,12.0 21.0,11.7 23.0,11.0 24.9,10.0 26.8,10.1 28.7,7.8 30.6,7.7 32.5,6.4 34.4,6.7 36.3,4.1 38.2,3.3 40.1,2.0 42.0,2.5" fill="none" stroke="var(--up)" stroke-width="1.6" stroke-linejoin="round" stroke-linecap="round" vector-effect="non-scaling-stroke"/><circle cx="42.0" cy="2.5" r="2" fill="var(--up)"/></svg></a><a class="se" href="https://m.stock.naver.com/worldstock/etf/XLC"><span class="sn">통신서비스</span><span class="sb"><i class="neg" style="right:50%;width:11.0%"></i></span><span class="sc"><span class="down">▼ 0.6%</span></span><svg class="sp" viewBox="0 0 44 14" preserveAspectRatio="none" aria-hidden="true"><polyline points="2.0,9.8 3.9,2.0 5.8,4.4 7.7,6.3 9.6,3.5 11.5,5.6 13.4,9.1 15.3,8.5 17.2,9.5 19.1,11.6 21.0,10.8 23.0,8.2 24.9,8.2 26.8,8.9 28.7,7.3 30.6,10.7 32.5,8.6 34.4,6.9 36.3,9.8 38.2,6.6 40.1,10.8 42.0,12.0" fill="none" stroke="var(--down)" stroke-width="1.6" stroke-linejoin="round" stroke-linecap="round" vector-effect="non-scaling-stroke"/><circle cx="42.0" cy="12.0" r="2" fill="var(--down)"/></svg></a><a class="se" href="https://m.stock.naver.com/worldstock/etf/XLU"><span class="sn">유틸리티</span><span class="sb"><i class="neg" style="right:50%;width:14.1%"></i></span><span class="sc"><span class="down">▼ 0.7%</span></span><svg class="sp" viewBox="0 0 44 14" preserveAspectRatio="none" aria-hidden="true"><polyline points="2.0,5.7 3.9,7.2 5.8,7.7 7.7,10.3 9.6,11.6 11.5,11.1 13.4,12.0 15.3,10.4 17.2,11.4 19.1,10.5 21.0,10.0 23.0,9.6 24.9,5.5 26.8,5.6 28.7,5.9 30.6,4.7 32.5,4.0 34.4,3.1 36.3,3.7 38.2,3.9 40.1,2.0 42.0,3.0" fill="none" stroke="var(--up)" stroke-width="1.6" stroke-linejoin="round" stroke-linecap="round" vector-effect="non-scaling-stroke"/><circle cx="42.0" cy="3.0" r="2" fill="var(--up)"/></svg></a><a class="se" href="https://m.stock.naver.com/worldstock/etf/XLRE.K"><span class="sn">부동산</span><span class="sb"><i class="neg" style="right:50%;width:15.3%"></i></span><span class="sc"><span class="down">▼ 0.8%</span></span><svg class="sp" viewBox="0 0 44 14" preserveAspectRatio="none" aria-hidden="true"><polyline points="2.0,2.3 3.9,2.0 5.8,2.4 7.7,5.7 9.6,6.7 11.5,7.1 13.4,8.1 15.3,8.2 17.2,10.3 19.1,11.5 21.0,10.8 23.0,11.5 24.9,9.4 26.8,12.0 28.7,10.6 30.6,6.9 32.5,5.3 34.4,5.8 36.3,7.4 38.2,5.0 40.1,4.1 42.0,5.7" fill="none" stroke="var(--down)" stroke-width="1.6" stroke-linejoin="round" stroke-linecap="round" vector-effect="non-scaling-stroke"/><circle cx="42.0" cy="5.7" r="2" fill="var(--down)"/></svg></a></div><div><div class="ch">🇰🇷 한국</div><a class="se" href="https://m.stock.naver.com/domestic/stock/305720"><span class="sn">2차전지</span><span class="sb"><i class="pos" style="left:50%;width:50.0%"></i></span><span class="sc"><span class="up">▲ 8.2%</span></span><svg class="sp" viewBox="0 0 44 14" preserveAspectRatio="none" aria-hidden="true"><polyline points="2.0,10.5 3.9,8.4 5.8,9.5 7.7,10.0 9.6,9.7 11.5,11.4 13.4,11.8 15.3,11.7 17.2,8.9 19.1,12.0 21.0,11.4 23.0,9.7 24.9,7.3 26.8,2.0 28.7,3.5 30.6,2.5 32.5,6.9 34.4,5.6 36.3,3.0 38.2,8.5 40.1,9.2 42.0,2.1" fill="none" stroke="var(--up)" stroke-width="1.6" stroke-linejoin="round" stroke-linecap="round" vector-effect="non-scaling-stroke"/><circle cx="42.0" cy="2.1" r="2" fill="var(--up)"/></svg></a><a class="se" href="https://m.stock.naver.com/domestic/stock/117680"><span class="sn">철강</span><span class="sb"><i class="pos" style="left:50%;width:32.9%"></i></span><span class="sc"><span class="up">▲ 5.4%</span></span><svg class="sp" viewBox="0 0 44 14" preserveAspectRatio="none" aria-hidden="true"><polyline points="2.0,3.7 3.9,2.9 5.8,3.3 7.7,2.7 9.6,2.0 11.5,3.0 13.4,3.2 15.3,5.0 17.2,5.2 19.1,6.2 21.0,6.1 23.0,5.5 24.9,4.4 26.8,3.5 28.7,7.1 30.6,6.8 32.5,8.4 34.4,9.1 36.3,8.5 38.2,12.0 40.1,10.8 42.0,7.7" fill="none" stroke="var(--down)" stroke-width="1.6" stroke-linejoin="round" stroke-linecap="round" vector-effect="non-scaling-stroke"/><circle cx="42.0" cy="7.7" r="2" fill="var(--down)"/></svg></a><a class="se" href="https://m.stock.naver.com/domestic/stock/117460"><span class="sn">화학</span><span class="sb"><i class="pos" style="left:50%;width:30.2%"></i></span><span class="sc"><span class="up">▲ 5.0%</span></span><svg class="sp" viewBox="0 0 44 14" preserveAspectRatio="none" aria-hidden="true"><polyline points="2.0,8.3 3.9,8.7 5.8,9.7 7.7,8.8 9.6,9.6 11.5,10.4 13.4,10.5 15.3,8.9 17.2,5.5 19.1,8.2 21.0,6.6 23.0,7.1 24.9,3.6 26.8,2.0 28.7,3.0 30.6,3.3 32.5,7.4 34.4,8.0 36.3,6.7 38.2,12.0 40.1,11.6 42.0,7.7" fill="none" stroke="var(--up)" stroke-width="1.6" stroke-linejoin="round" stroke-linecap="round" vector-effect="non-scaling-stroke"/><circle cx="42.0" cy="7.7" r="2" fill="var(--up)"/></svg></a><a class="se" href="https://m.stock.naver.com/domestic/stock/091180"><span class="sn">자동차</span><span class="sb"><i class="pos" style="left:50%;width:23.8%"></i></span><span class="sc"><span class="up">▲ 3.9%</span></span><svg class="sp" viewBox="0 0 44 14" preserveAspectRatio="none" aria-hidden="true"><polyline points="2.0,2.0 3.9,3.0 5.8,4.1 7.7,3.8 9.6,2.9 11.5,4.6 13.4,5.2 15.3,6.4 17.2,4.8 19.1,5.9 21.0,6.7 23.0,5.1 24.9,4.7 26.8,4.4 28.7,6.0 30.6,7.1 32.5,8.8 34.4,9.8 36.3,8.7 38.2,12.0 40.1,9.4 42.0,6.3" fill="none" stroke="var(--down)" stroke-width="1.6" stroke-linejoin="round" stroke-linecap="round" vector-effect="non-scaling-stroke"/><circle cx="42.0" cy="6.3" r="2" fill="var(--down)"/></svg></a><a class="se" href="https://m.stock.naver.com/domestic/stock/449450"><span class="sn">방산</span><span class="sb"><i class="pos" style="left:50%;width:21.0%"></i></span><span class="sc"><span class="up">▲ 3.4%</span></span><svg class="sp" viewBox="0 0 44 14" preserveAspectRatio="none" aria-hidden="true"><polyline points="2.0,2.0 3.9,4.0 5.8,4.7 7.7,2.8 9.6,2.3 11.5,3.3 13.4,3.8 15.3,4.8 17.2,4.4 19.1,5.2 21.0,5.2 23.0,4.4 24.9,3.0 26.8,4.4 28.7,6.6 30.6,8.2 32.5,9.8 34.4,10.5 36.3,10.3 38.2,12.0 40.1,10.5 42.0,9.3" fill="none" stroke="var(--down)" stroke-width="1.6" stroke-linejoin="round" stroke-linecap="round" vector-effect="non-scaling-stroke"/><circle cx="42.0" cy="9.3" r="2" fill="var(--down)"/></svg></a><a class="se" href="https://m.stock.naver.com/domestic/stock/244580"><span class="sn">바이오</span><span class="sb"><i class="pos" style="left:50%;width:18.4%"></i></span><span class="sc"><span class="up">▲ 3.0%</span></span><svg class="sp" viewBox="0 0 44 14" preserveAspectRatio="none" aria-hidden="true"><polyline points="2.0,7.0 3.9,6.4 5.8,7.0 7.7,6.3 9.6,7.0 11.5,6.6 13.4,7.5 15.3,7.0 17.2,5.8 19.1,6.5 21.0,5.9 23.0,2.4 24.9,3.6 26.8,2.0 28.7,2.7 30.6,5.2 32.5,7.5 34.4,9.3 36.3,9.8 38.2,12.0 40.1,8.3 42.0,6.7" fill="none" stroke="var(--up)" stroke-width="1.6" stroke-linejoin="round" stroke-linecap="round" vector-effect="non-scaling-stroke"/><circle cx="42.0" cy="6.7" r="2" fill="var(--up)"/></svg></a><a class="se" href="https://m.stock.naver.com/domestic/stock/117700"><span class="sn">건설</span><span class="sb"><i class="pos" style="left:50%;width:13.2%"></i></span><span class="sc"><span class="up">▲ 2.2%</span></span><svg class="sp" viewBox="0 0 44 14" preserveAspectRatio="none" aria-hidden="true"><polyline points="2.0,2.6 3.9,2.0 5.8,3.1 7.7,2.9 9.6,2.4 11.5,2.9 13.4,2.3 15.3,4.3 17.2,3.6 19.1,5.6 21.0,5.3 23.0,5.6 24.9,5.8 26.8,5.9 28.7,6.2 30.6,7.5 32.5,9.2 34.4,9.7 36.3,9.5 38.2,12.0 40.1,11.3 42.0,10.5" fill="none" stroke="var(--down)" stroke-width="1.6" stroke-linejoin="round" stroke-linecap="round" vector-effect="non-scaling-stroke"/><circle cx="42.0" cy="10.5" r="2" fill="var(--down)"/></svg></a><a class="se" href="https://m.stock.naver.com/domestic/stock/102970"><span class="sn">증권</span><span class="sb"><i class="pos" style="left:50%;width:12.4%"></i></span><span class="sc"><span class="up">▲ 2.0%</span></span><svg class="sp" viewBox="0 0 44 14" preserveAspectRatio="none" aria-hidden="true"><polyline points="2.0,2.0 3.9,3.0 5.8,3.7 7.7,3.9 9.6,4.0 11.5,3.3 13.4,2.8 15.3,2.8 17.2,3.7 19.1,4.1 21.0,4.5 23.0,3.4 24.9,3.5 26.8,4.0 28.7,4.8 30.6,6.1 32.5,7.6 34.4,8.7 36.3,9.3 38.2,12.0 40.1,10.1 42.0,9.3" fill="none" stroke="var(--down)" stroke-width="1.6" stroke-linejoin="round" stroke-linecap="round" vector-effect="non-scaling-stroke"/><circle cx="42.0" cy="9.3" r="2" fill="var(--down)"/></svg></a><a class="se" href="https://m.stock.naver.com/domestic/stock/091170"><span class="sn">은행</span><span class="sb"><i class="pos" style="left:50%;width:6.8%"></i></span><span class="sc"><span class="up">▲ 1.1%</span></span><svg class="sp" viewBox="0 0 44 14" preserveAspectRatio="none" aria-hidden="true"><polyline points="2.0,2.0 3.9,3.5 5.8,3.7 7.7,3.4 9.6,4.4 11.5,3.9 13.4,4.0 15.3,5.4 17.2,4.0 19.1,4.5 21.0,6.6 23.0,8.0 24.9,7.8 26.8,7.9 28.7,7.9 30.6,9.7 32.5,10.0 34.4,10.1 36.3,11.9 38.2,12.0 40.1,11.6 42.0,10.9" fill="none" stroke="var(--down)" stroke-width="1.6" stroke-linejoin="round" stroke-linecap="round" vector-effect="non-scaling-stroke"/><circle cx="42.0" cy="10.9" r="2" fill="var(--down)"/></svg></a><a class="se" href="https://m.stock.naver.com/domestic/stock/365000"><span class="sn">인터넷</span><span class="sb"><i class="pos" style="left:50%;width:6.2%"></i></span><span class="sc"><span class="up">▲ 1.0%</span></span><svg class="sp" viewBox="0 0 44 14" preserveAspectRatio="none" aria-hidden="true"><polyline points="2.0,7.9 3.9,7.7 5.8,7.3 7.7,8.0 9.6,6.6 11.5,7.8 13.4,7.5 15.3,7.9 17.2,6.0 19.1,6.6 21.0,5.6 23.0,4.7 24.9,3.3 26.8,2.0 28.7,3.7 30.6,5.1 32.5,6.7 34.4,7.9 36.3,7.6 38.2,12.0 40.1,8.9 42.0,8.3" fill="none" stroke="var(--down)" stroke-width="1.6" stroke-linejoin="round" stroke-linecap="round" vector-effect="non-scaling-stroke"/><circle cx="42.0" cy="8.3" r="2" fill="var(--down)"/></svg></a><a class="se" href="https://m.stock.naver.com/domestic/stock/091160"><span class="sn">반도체</span><span class="sb"><i class="pos" style="left:50%;width:0.1%"></i></span><span class="sc"><span class="flat">– 0.0%</span></span><svg class="sp" viewBox="0 0 44 14" preserveAspectRatio="none" aria-hidden="true"><polyline points="2.0,9.1 3.9,9.3 5.8,8.0 7.7,8.0 9.6,7.3 11.5,6.1 13.4,5.7 15.3,4.8 17.2,5.8 19.1,4.6 21.0,4.2 23.0,2.4 24.9,2.6 26.8,2.0 28.7,3.6 30.6,3.3 32.5,5.2 34.4,6.6 36.3,8.1 38.2,12.0 40.1,11.0 42.0,11.0" fill="none" stroke="var(--down)" stroke-width="1.6" stroke-linejoin="round" stroke-linecap="round" vector-effect="non-scaling-stroke"/><circle cx="42.0" cy="11.0" r="2" fill="var(--down)"/></svg></a><a class="se" href="https://m.stock.naver.com/domestic/stock/494670"><span class="sn">조선</span><span class="sb"><i class="pos" style="left:50%;width:0.0%"></i></span><span class="sc"><span class="flat">– 0.0%</span></span><svg class="sp" viewBox="0 0 44 14" preserveAspectRatio="none" aria-hidden="true"><polyline points="2.0,2.0 3.9,4.2 5.8,4.7 7.7,2.9 9.6,3.4 11.5,4.2 13.4,4.0 15.3,4.9 17.2,4.8 19.1,6.0 21.0,5.5 23.0,5.7 24.9,5.7 26.8,6.4 28.7,7.8 30.6,8.9 32.5,10.8 34.4,10.5 36.3,10.5 38.2,12.0 40.1,11.8 42.0,11.8" fill="none" stroke="var(--down)" stroke-width="1.6" stroke-linejoin="round" stroke-linecap="round" vector-effect="non-scaling-stroke"/><circle cx="42.0" cy="11.8" r="2" fill="var(--down)"/></svg></a></div></div></div>
 <div class="blk"><div class="bt">주요 기업 <span class="at">시총 상위 10 · 1개월 추이</span></div>
 <div class="cos"><div><div class="ch">🇺🇸 미국</div><a class="co" href="https://www.nasdaq.com/market-activity/stocks/nvda"><span class="cn">엔비디아</span><span class="cp">$215.56</span><svg class="sp" viewBox="0 0 60 16" preserveAspectRatio="none" aria-hidden="true"><polyline points="2.0,10.1 4.7,7.7 7.3,7.0 10.0,8.6 12.7,9.0 15.3,8.8 18.0,7.0 20.7,7.7 23.3,7.2 26.0,6.0 28.7,4.5 31.3,2.2 34.0,2.0 36.7,2.8 39.3,6.2 42.0,6.8 44.7,8.2 47.3,7.1 50.0,10.6 52.7,12.5 55.3,14.0 58.0,13.3" fill="none" stroke="var(--down)" stroke-width="1.6" stroke-linejoin="round" stroke-linecap="round" vector-effect="non-scaling-stroke"/><circle cx="58.0" cy="13.3" r="2" fill="var(--down)"/></svg><span class="cc"><span class="up">▲ 0.7%</span></span></a><a class="co" href="https://www.nasdaq.com/market-activity/stocks/aapl"><span class="cn">애플</span><span class="cp">$344.19</span><svg class="sp" viewBox="0 0 60 16" preserveAspectRatio="none" aria-hidden="true"><polyline points="2.0,8.5 4.7,6.2 7.3,5.6 10.0,7.8 12.7,8.7 15.3,4.5 18.0,6.7 20.7,14.0 23.3,11.1 26.0,13.3 28.7,10.5 31.3,11.2 34.0,10.6 36.7,8.1 39.3,5.1 42.0,8.1 44.7,4.6 47.3,4.4 50.0,3.0 52.7,3.8 55.3,2.6 58.0,2.0" fill="none" stroke="var(--up)" stroke-width="1.6" stroke-linejoin="round" stroke-linecap="round" vector-effect="non-scaling-stroke"/><circle cx="58.0" cy="2.0" r="2" fill="var(--up)"/></svg><span class="cc"><span class="up">▲ 0.2%</span></span></a><a class="co" href="https://www.nasdaq.com/market-activity/stocks/googl"><span class="cn">알파벳</span><span class="cp">$343.07</span><svg class="sp" viewBox="0 0 60 16" preserveAspectRatio="none" aria-hidden="true"><polyline points="2.0,5.8 4.7,2.0 7.3,4.7 10.0,14.0 12.7,10.8 15.3,9.7 18.0,10.6 20.7,11.8 23.3,9.6 26.0,13.7 28.7,10.0 31.3,8.0 34.0,7.1 36.7,5.1 39.3,6.7 42.0,4.3 44.7,3.6 47.3,2.8 50.0,7.1 52.7,6.0 55.3,12.1 58.0,10.3" fill="none" stroke="var(--down)" stroke-width="1.6" stroke-linejoin="round" stroke-linecap="round" vector-effect="non-scaling-stroke"/><circle cx="58.0" cy="10.3" r="2" fill="var(--down)"/></svg><span class="cc"><span class="up">▲ 0.7%</span></span></a><a class="co" href="https://www.nasdaq.com/market-activity/stocks/msft"><span class="cn">마이크로소프트</span><span class="cp">$531.01</span><svg class="sp" viewBox="0 0 60 16" preserveAspectRatio="none" aria-hidden="true"><polyline points="2.0,14.0 4.7,12.1 7.3,13.0 10.0,12.4 12.7,13.0 15.3,8.6 18.0,10.3 20.7,10.3 23.3,9.4 26.0,9.4 28.7,8.3 31.3,6.4 34.0,5.4 36.7,5.3 39.3,7.0 42.0,4.0 44.7,2.6 47.3,2.0 50.0,4.4 52.7,3.0 55.3,5.5 58.0,5.0" fill="none" stroke="var(--up)" stroke-width="1.6" stroke-linejoin="round" stroke-linecap="round" vector-effect="non-scaling-stroke"/><circle cx="58.0" cy="5.0" r="2" fill="var(--up)"/></svg><span class="cc"><span class="up">▲ 0.4%</span></span></a><a class="co" href="https://www.nasdaq.com/market-activity/stocks/amzn"><span class="cn">아마존</span><span class="cp">$255.84</span><svg class="sp" viewBox="0 0 60 16" preserveAspectRatio="none" aria-hidden="true"><polyline points="2.0,8.4 4.7,4.9 7.3,7.5 10.0,11.7 12.7,11.6 15.3,11.4 18.0,14.0 20.7,13.6 23.3,11.8 26.0,12.5 28.7,10.0 31.3,10.1 34.0,6.5 36.7,3.9 39.3,8.2 42.0,2.0 44.7,4.1 47.3,4.8 50.0,8.2 52.7,7.7 55.3,11.2 58.0,6.9" fill="none" stroke="var(--up)" stroke-width="1.6" stroke-linejoin="round" stroke-linecap="round" vector-effect="non-scaling-stroke"/><circle cx="58.0" cy="6.9" r="2" fill="var(--up)"/></svg><span class="cc"><span class="up">▲ 2.3%</span></span></a><a class="co" href="https://www.nasdaq.com/market-activity/stocks/tsm"><span class="cn">TSMC</span><span class="cp">$417.81</span><svg class="sp" viewBox="0 0 60 16" preserveAspectRatio="none" aria-hidden="true"><polyline points="2.0,10.4 4.7,8.7 7.3,7.5 10.0,8.4 12.7,7.7 15.3,7.8 18.0,7.4 20.7,6.7 23.3,6.9 26.0,6.4 28.7,4.1 31.3,2.0 34.0,2.6 36.7,4.2 39.3,6.6 42.0,7.3 44.7,8.8 47.3,8.7 50.0,11.1 52.7,12.4 55.3,14.0 58.0,13.1" fill="none" stroke="var(--down)" stroke-width="1.6" stroke-linejoin="round" stroke-linecap="round" vector-effect="non-scaling-stroke"/><circle cx="58.0" cy="13.1" r="2" fill="var(--down)"/></svg><span class="cc"><span class="up">▲ 1.3%</span></span></a><a class="co" href="https://www.nasdaq.com/market-activity/stocks/meta"><span class="cn">메타</span><span class="cp">$700.37</span><svg class="sp" viewBox="0 0 60 16" preserveAspectRatio="none" aria-hidden="true"><polyline points="2.0,14.0 4.7,5.9 7.3,6.4 10.0,5.6 12.7,2.0 15.3,4.8 18.0,8.6 20.7,6.2 23.3,7.6 26.0,7.5 28.7,7.3 31.3,5.8 34.0,6.2 36.7,8.0 39.3,8.1 42.0,8.3 44.7,5.7 47.3,3.6 50.0,6.3 52.7,6.4 55.3,9.3 58.0,10.3" fill="none" stroke="var(--up)" stroke-width="1.6" stroke-linejoin="round" stroke-linecap="round" vector-effect="non-scaling-stroke"/><circle cx="58.0" cy="10.3" r="2" fill="var(--up)"/></svg><span class="cc"><span class="down">▼ 1.3%</span></span></a><a class="co" href="https://www.nasdaq.com/market-activity/stocks/avgo"><span class="cn">브로드컴</span><span class="cp">$335.87</span><svg class="sp" viewBox="0 0 60 16" preserveAspectRatio="none" aria-hidden="true"><polyline points="2.0,6.7 4.7,5.5 7.3,5.0 10.0,7.4 12.7,8.6 15.3,8.0 18.0,8.8 20.7,7.4 23.3,8.4 26.0,10.3 28.7,7.4 31.3,5.5 34.0,2.2 36.7,2.0 39.3,6.1 42.0,5.8 44.7,7.5 47.3,6.8 50.0,9.6 52.7,10.1 55.3,14.0 58.0,12.2" fill="none" stroke="var(--down)" stroke-width="1.6" stroke-linejoin="round" stroke-linecap="round" vector-effect="non-scaling-stroke"/><circle cx="58.0" cy="12.2" r="2" fill="var(--down)"/></svg><span class="cc"><span class="up">▲ 2.2%</span></span></a><a class="co" href="https://www.nasdaq.com/market-activity/stocks/tsla"><span class="cn">테슬라</span><span class="cp">$358.47</span><svg class="sp" viewBox="0 0 60 16" preserveAspectRatio="none" aria-hidden="true"><polyline points="2.0,9.4 4.7,5.0 7.3,3.5 10.0,3.0 12.7,3.9 15.3,6.3 18.0,12.1 20.7,14.0 23.3,13.2 26.0,13.5 28.7,6.9 31.3,3.6 34.0,2.8 36.7,4.0 39.3,5.1 42.0,2.0 44.7,3.9 47.3,5.0 50.0,8.2 52.7,10.1 55.3,13.2 58.0,11.7" fill="none" stroke="var(--down)" stroke-width="1.6" stroke-linejoin="round" stroke-linecap="round" vector-effect="non-scaling-stroke"/><circle cx="58.0" cy="11.7" r="2" fill="var(--down)"/></svg><span class="cc"><span class="up">▲ 1.1%</span></span></a><a class="co" href="https://www.nasdaq.com/market-activity/stocks/lly"><span class="cn">일라이릴리</span><span class="cp">$1,251.09</span><svg class="sp" viewBox="0 0 60 16" preserveAspectRatio="none" aria-hidden="true"><polyline points="2.0,12.9 4.7,11.7 7.3,11.1 10.0,13.1 12.7,9.9 15.3,9.7 18.0,9.6 20.7,9.6 23.3,12.5 26.0,13.3 28.7,14.0 31.3,14.0 34.0,12.5 36.7,9.2 39.3,11.2 42.0,10.2 44.7,9.8 47.3,11.5 50.0,7.1 52.7,2.6 55.3,2.0 58.0,2.6" fill="none" stroke="var(--up)" stroke-width="1.6" stroke-linejoin="round" stroke-linecap="round" vector-effect="non-scaling-stroke"/><circle cx="58.0" cy="2.6" r="2" fill="var(--up)"/></svg><span class="cc"><span class="down">▼ 0.5%</span></span></a></div>
